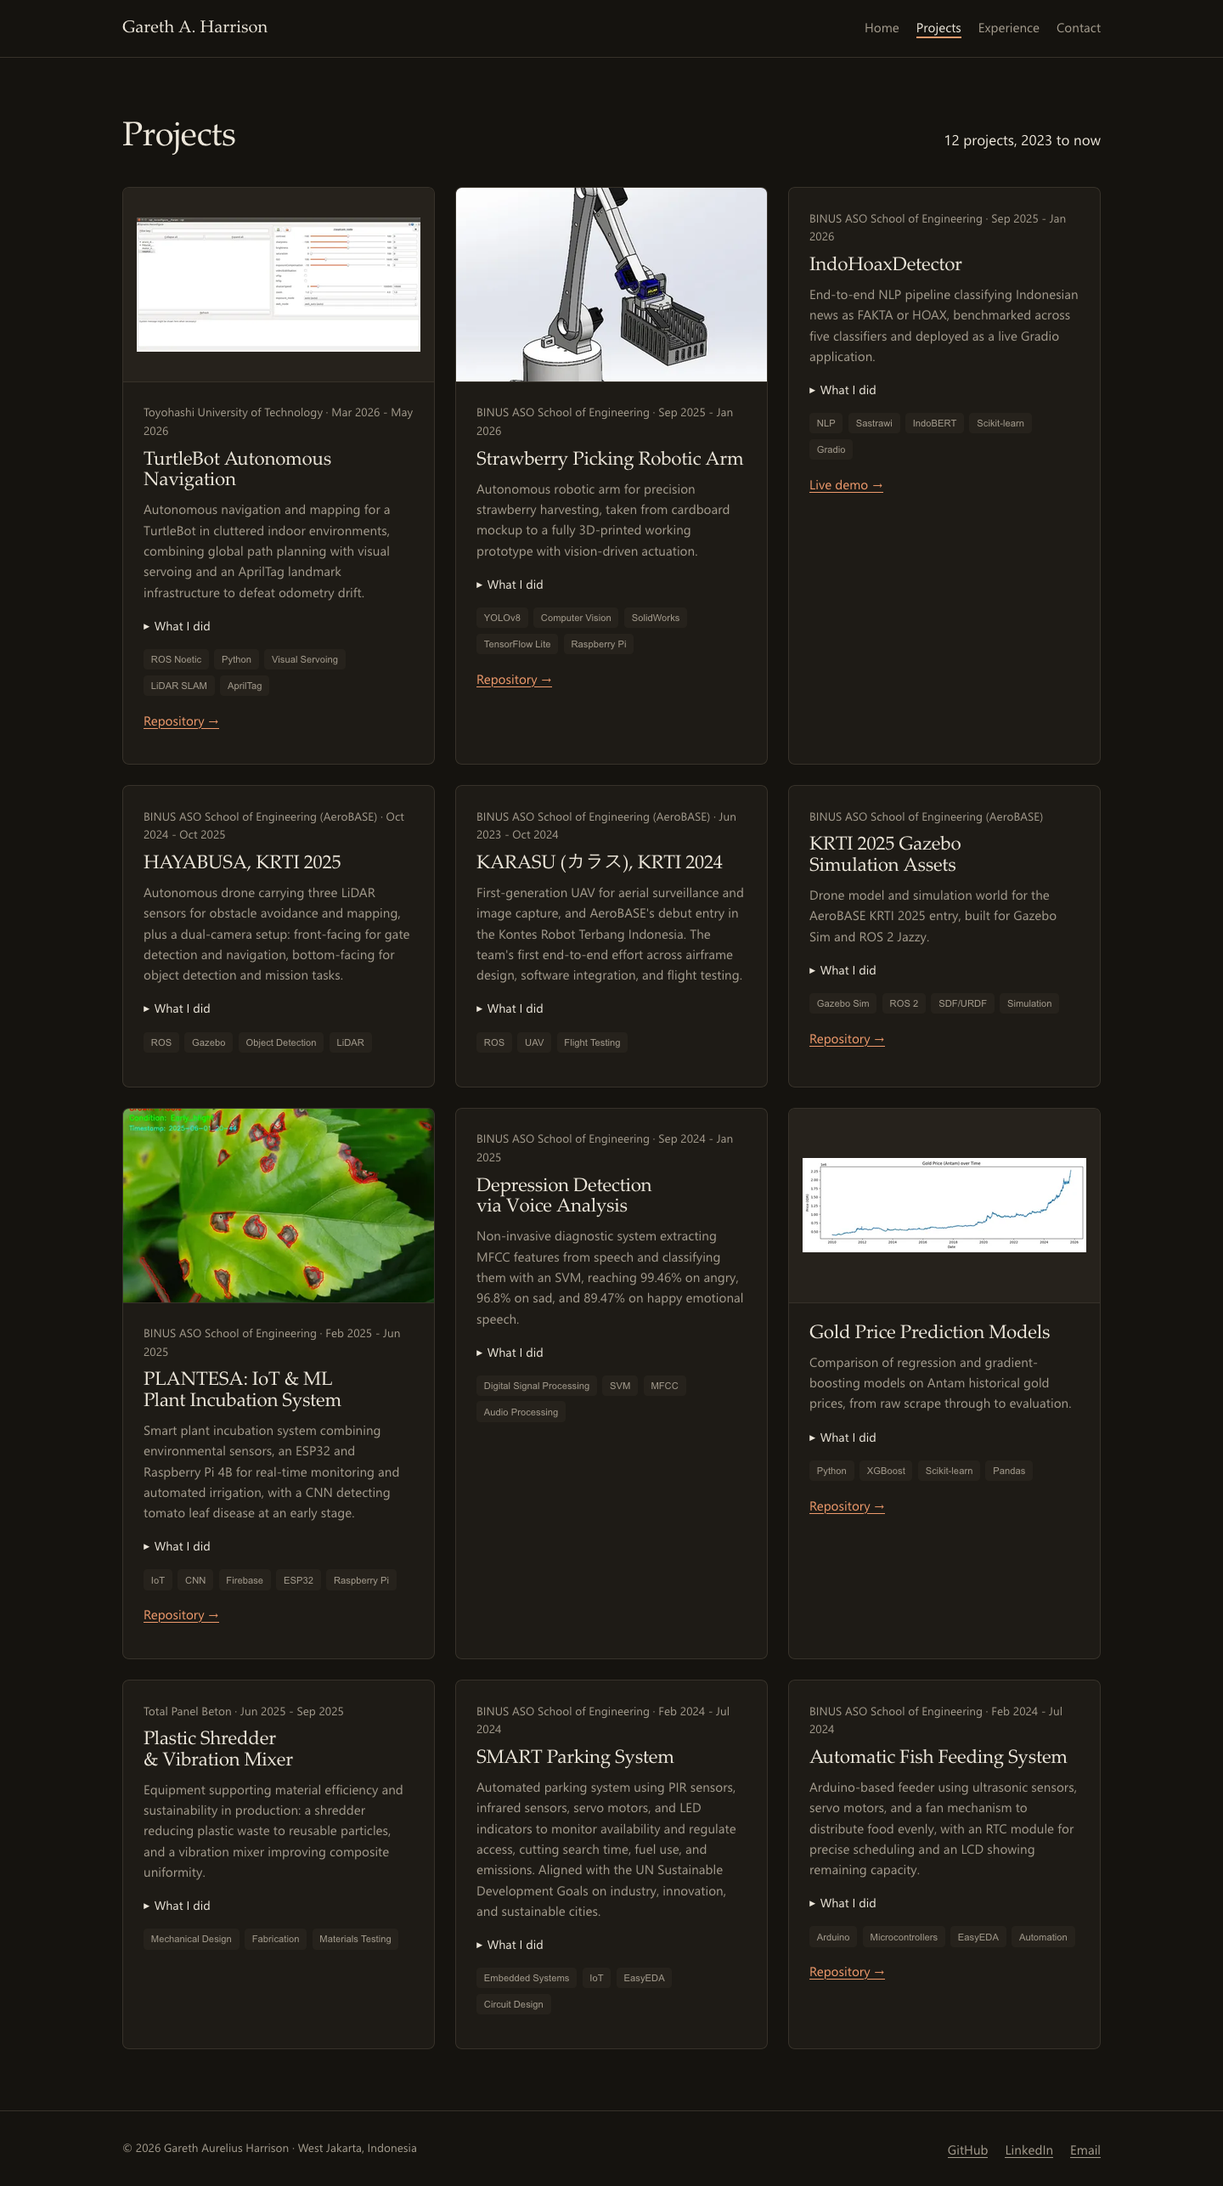
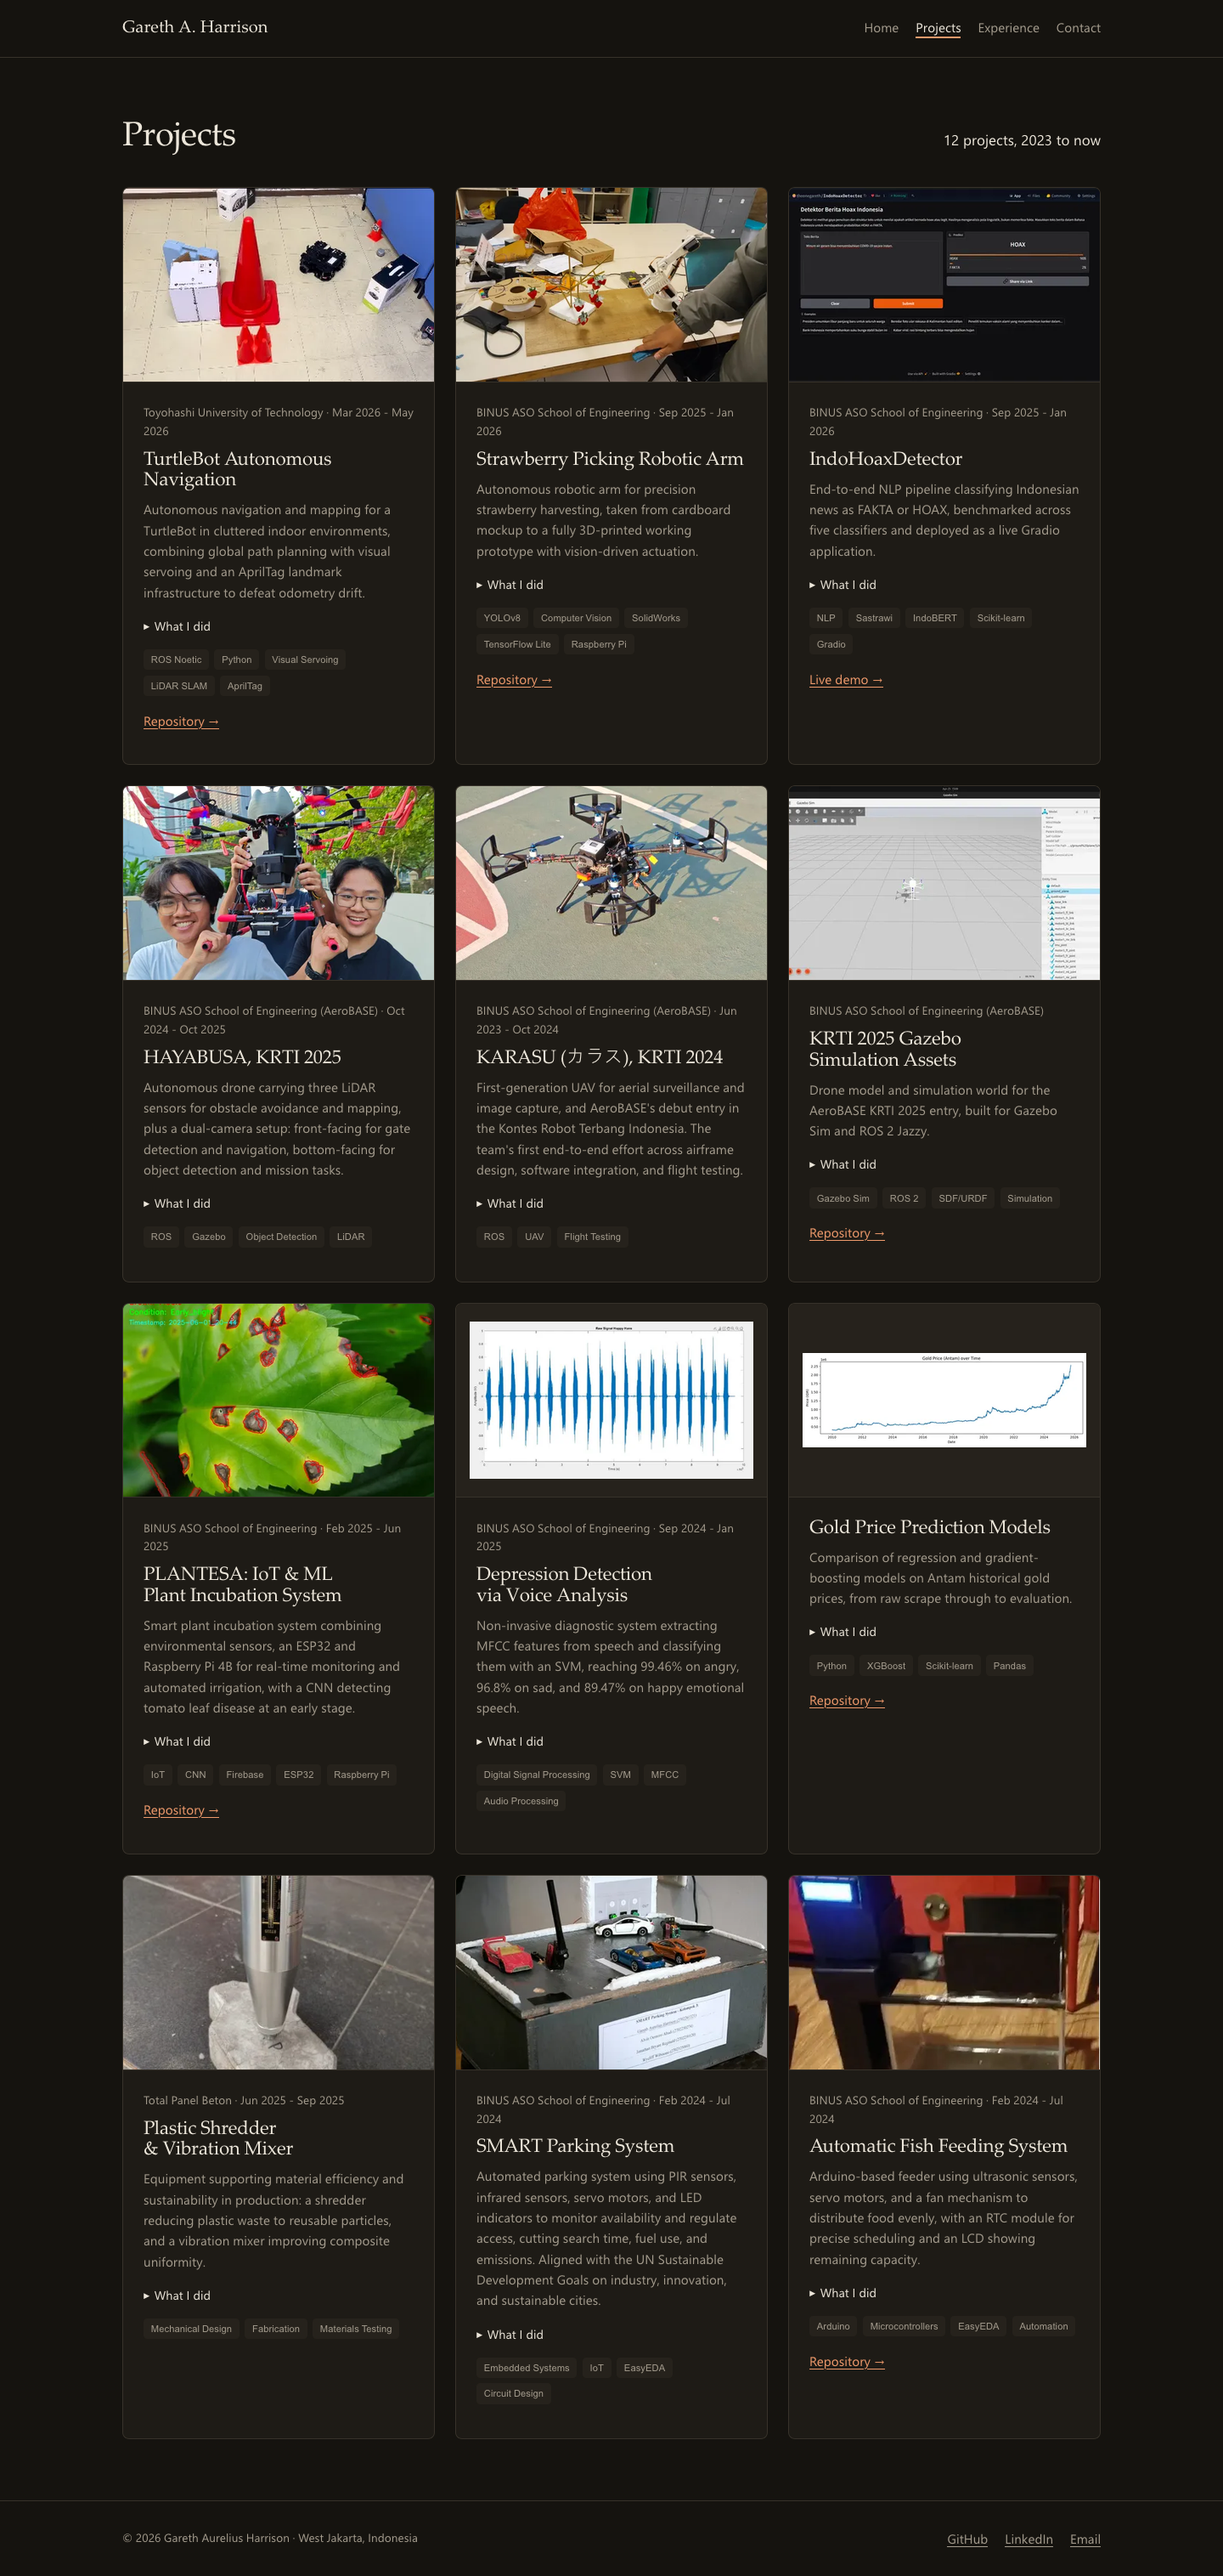
✨ feat(web): use the real project photos from the CV portfolio
- extract the portfolio images from the 11 June 2026 CV PDF and give every project a photo
- turtlebot arena, strawberry prototype, hayabusa, karasu, gazebo sim, indohoax app, voice waveform, shredder test, smart parking model and fish feeder
- feature turtlebot and hayabusa on the homepage alongside strawberry and plantesa
- keep the SolidWorks arm render as the hero image, decoupled from the project card
- add the CV portrait to the about section, cropped from the source photo at full resolution
- replace the png-means-chart heuristic with an explicit contain flag on chart images
- drop the rqt screenshot the turtlebot card used before
- refresh docs/screenshots

diff --git a/src/data/site.ts b/src/data/site.ts
@@ -1,7 +1,15 @@
-import strawberryArm from "../assets/projects/strawberry-arm.jpg";
+import turtlebotArena from "../assets/projects/turtlebot-arena.png";
+import strawberryPrototype from "../assets/projects/strawberry-prototype.png";
+import indohoaxApp from "../assets/projects/indohoax-app.png";
+import hayabusa from "../assets/projects/hayabusa.jpg";
+import karasu from "../assets/projects/karasu.jpg";
+import krtiGazebo from "../assets/projects/krti-gazebo.jpg";
 import plantesaLeaf from "../assets/projects/plantesa-leaf.jpg";
+import depressionWaveform from "../assets/projects/depression-waveform.png";
 import goldPrice from "../assets/projects/gold-price.png";
-import turtlebotRaspicam from "../assets/projects/turtlebot-raspicam.png";
+import shredderSlump from "../assets/projects/shredder-slump.jpg";
+import smartParking from "../assets/projects/smart-parking.png";
+import fishFeeder from "../assets/projects/fish-feeder.png";
 
 export const site = {
 	name: "Gareth Aurelius Harrison",
@@ -26,6 +34,7 @@ export type Project = {
 	hrefLabel?: string;
 	image?: ImageMetadata;
 	imageAlt?: string;
+	contain?: boolean;
 	featured?: boolean;
 };
 
@@ -42,8 +51,9 @@ export const projects: Project[] = [
 			"Ran intrinsic camera calibration for a Raspberry Pi Camera V2 and designed a tiered landmark system to mitigate long-term dead-reckoning drift.",
 		],
 		href: "https://github.com/theonegareth/turtlebot-toyohashi",
-		image: turtlebotRaspicam,
-		imageAlt: "rqt dynamic reconfigure panel tuning the Raspberry Pi camera node on the TurtleBot",
+		image: turtlebotArena,
+		imageAlt: "TurtleBot in the test arena at Toyohashi, surrounded by cones and boxes carrying AprilTag landmarks",
+		featured: true,
 	},
 	{
 		title: "Strawberry Picking Robotic Arm",
@@ -57,8 +67,8 @@ export const projects: Project[] = [
 			"Quantized the model to INT8 TensorFlow Lite for Raspberry Pi 4B deployment, targeting 20-30 FPS.",
 		],
 		href: "https://github.com/theonegareth/strawberryPicker",
-		image: strawberryArm,
-		imageAlt: "SolidWorks render of the strawberry-picking robotic arm with its slotted basket end effector",
+		image: strawberryPrototype,
+		imageAlt: "3D-printed strawberry-picking arm prototype on the bench, reaching for strawberries beside a laptop",
 		featured: true,
 	},
 	{
@@ -74,6 +84,8 @@ export const projects: Project[] = [
 		],
 		href: "https://huggingface.co/spaces/theonegareth/IndoHoaxDetector",
 		hrefLabel: "Live demo",
+		image: indohoaxApp,
+		imageAlt: "IndoHoaxDetector running on Hugging Face Spaces, classifying a pasted Indonesian article as HOAX",
 	},
 	{
 		title: "HAYABUSA, KRTI 2025",
@@ -85,6 +97,9 @@ export const projects: Project[] = [
 			"Developed and integrated drone simulation environments in Gazebo using ROS for flight control and mission testing.",
 			"Built and tested object detection models for drone perception, improving target recognition accuracy in simulation.",
 		],
+		image: hayabusa,
+		imageAlt: "Two AeroBASE members holding the HAYABUSA drone up outdoors",
+		featured: true,
 	},
 	{
 		title: "KARASU (カラス), KRTI 2024",
@@ -96,6 +111,8 @@ export const projects: Project[] = [
 			"Debugged and optimized ROS packages controlling UAV navigation, sensor data, and communication modules.",
 			"Conducted multiple flight trials validating obstacle avoidance and autonomous decision-making, improving stability and responsiveness.",
 		],
+		image: karasu,
+		imageAlt: "The KARASU quadcopter on an outdoor court during a flight trial",
 	},
 	{
 		title: "KRTI 2025 Gazebo Simulation Assets",
@@ -107,6 +124,8 @@ export const projects: Project[] = [
 			"Built a Gazebo Sim world for visual and physics-based flight testing.",
 		],
 		href: "https://github.com/theonegareth/GZassets",
+		image: krtiGazebo,
+		imageAlt: "Gazebo simulation of the KRTI 2025 drone on the ground plane with the entity tree open",
 	},
 	{
 		title: "PLANTESA: IoT & ML Plant Incubation System",
@@ -135,6 +154,9 @@ export const projects: Project[] = [
 			"Preprocessed audio with noise reduction, segmentation, and normalization for consistency.",
 			"Extracted MFCC features capturing pitch, tone, and rhythm variation linked to depressive speech, then trained the SVM classifier.",
 		],
+		image: depressionWaveform,
+		imageAlt: "Raw waveform of a happy-voice recording plotted in MATLAB",
+		contain: true,
 	},
 	{
 		title: "Gold Price Prediction Models",
@@ -148,6 +170,7 @@ export const projects: Project[] = [
 		href: "https://github.com/theonegareth/GoldPricePredictor",
 		image: goldPrice,
 		imageAlt: "Line chart of Antam gold price in IDR from 2010 to 2026",
+		contain: true,
 	},
 	{
 		title: "Plastic Shredder & Vibration Mixer",
@@ -161,6 +184,8 @@ export const projects: Project[] = [
 			"Formulated and tested cement mixtures with varying plastic content for strength, durability, and production feasibility.",
 			"Carried out with Johan Kim and Stivan Delon Sahertian.",
 		],
+		image: shredderSlump,
+		imageAlt: "Rebound hammer test on a cured cement block with plastic content",
 	},
 	{
 		title: "SMART Parking System",
@@ -173,6 +198,8 @@ export const projects: Project[] = [
 			"Tested circuit performance across operating conditions to verify reliability.",
 			"Optimized and implemented the final design for stable operation.",
 		],
+		image: smartParking,
+		imageAlt: "SMART Parking System model with toy cars in the bays and the ultrasonic barrier post",
 	},
 	{
 		title: "Automatic Fish Feeding System",
@@ -186,6 +213,8 @@ export const projects: Project[] = [
 			"Assembled and tested the system for reliable distribution in aquarium conditions.",
 		],
 		href: "https://github.com/theonegareth/SMARTFishFeeder",
+		image: fishFeeder,
+		imageAlt: "Automatic fish feeder unit with its LCD lit, mounted beside the aquarium",
 	},
 ];
 

diff --git a/src/styles/global.css b/src/styles/global.css
@@ -559,6 +559,16 @@ section + section {
 	}
 }
 
+.portrait {
+	width: 11rem;
+	height: 11rem;
+	object-fit: cover;
+	object-position: top;
+	border-radius: 50%;
+	border: 1px solid var(--border);
+	margin-bottom: 1.5rem;
+}
+
 .prose {
 	max-width: 62ch;
 	font-size: 1.1rem;
